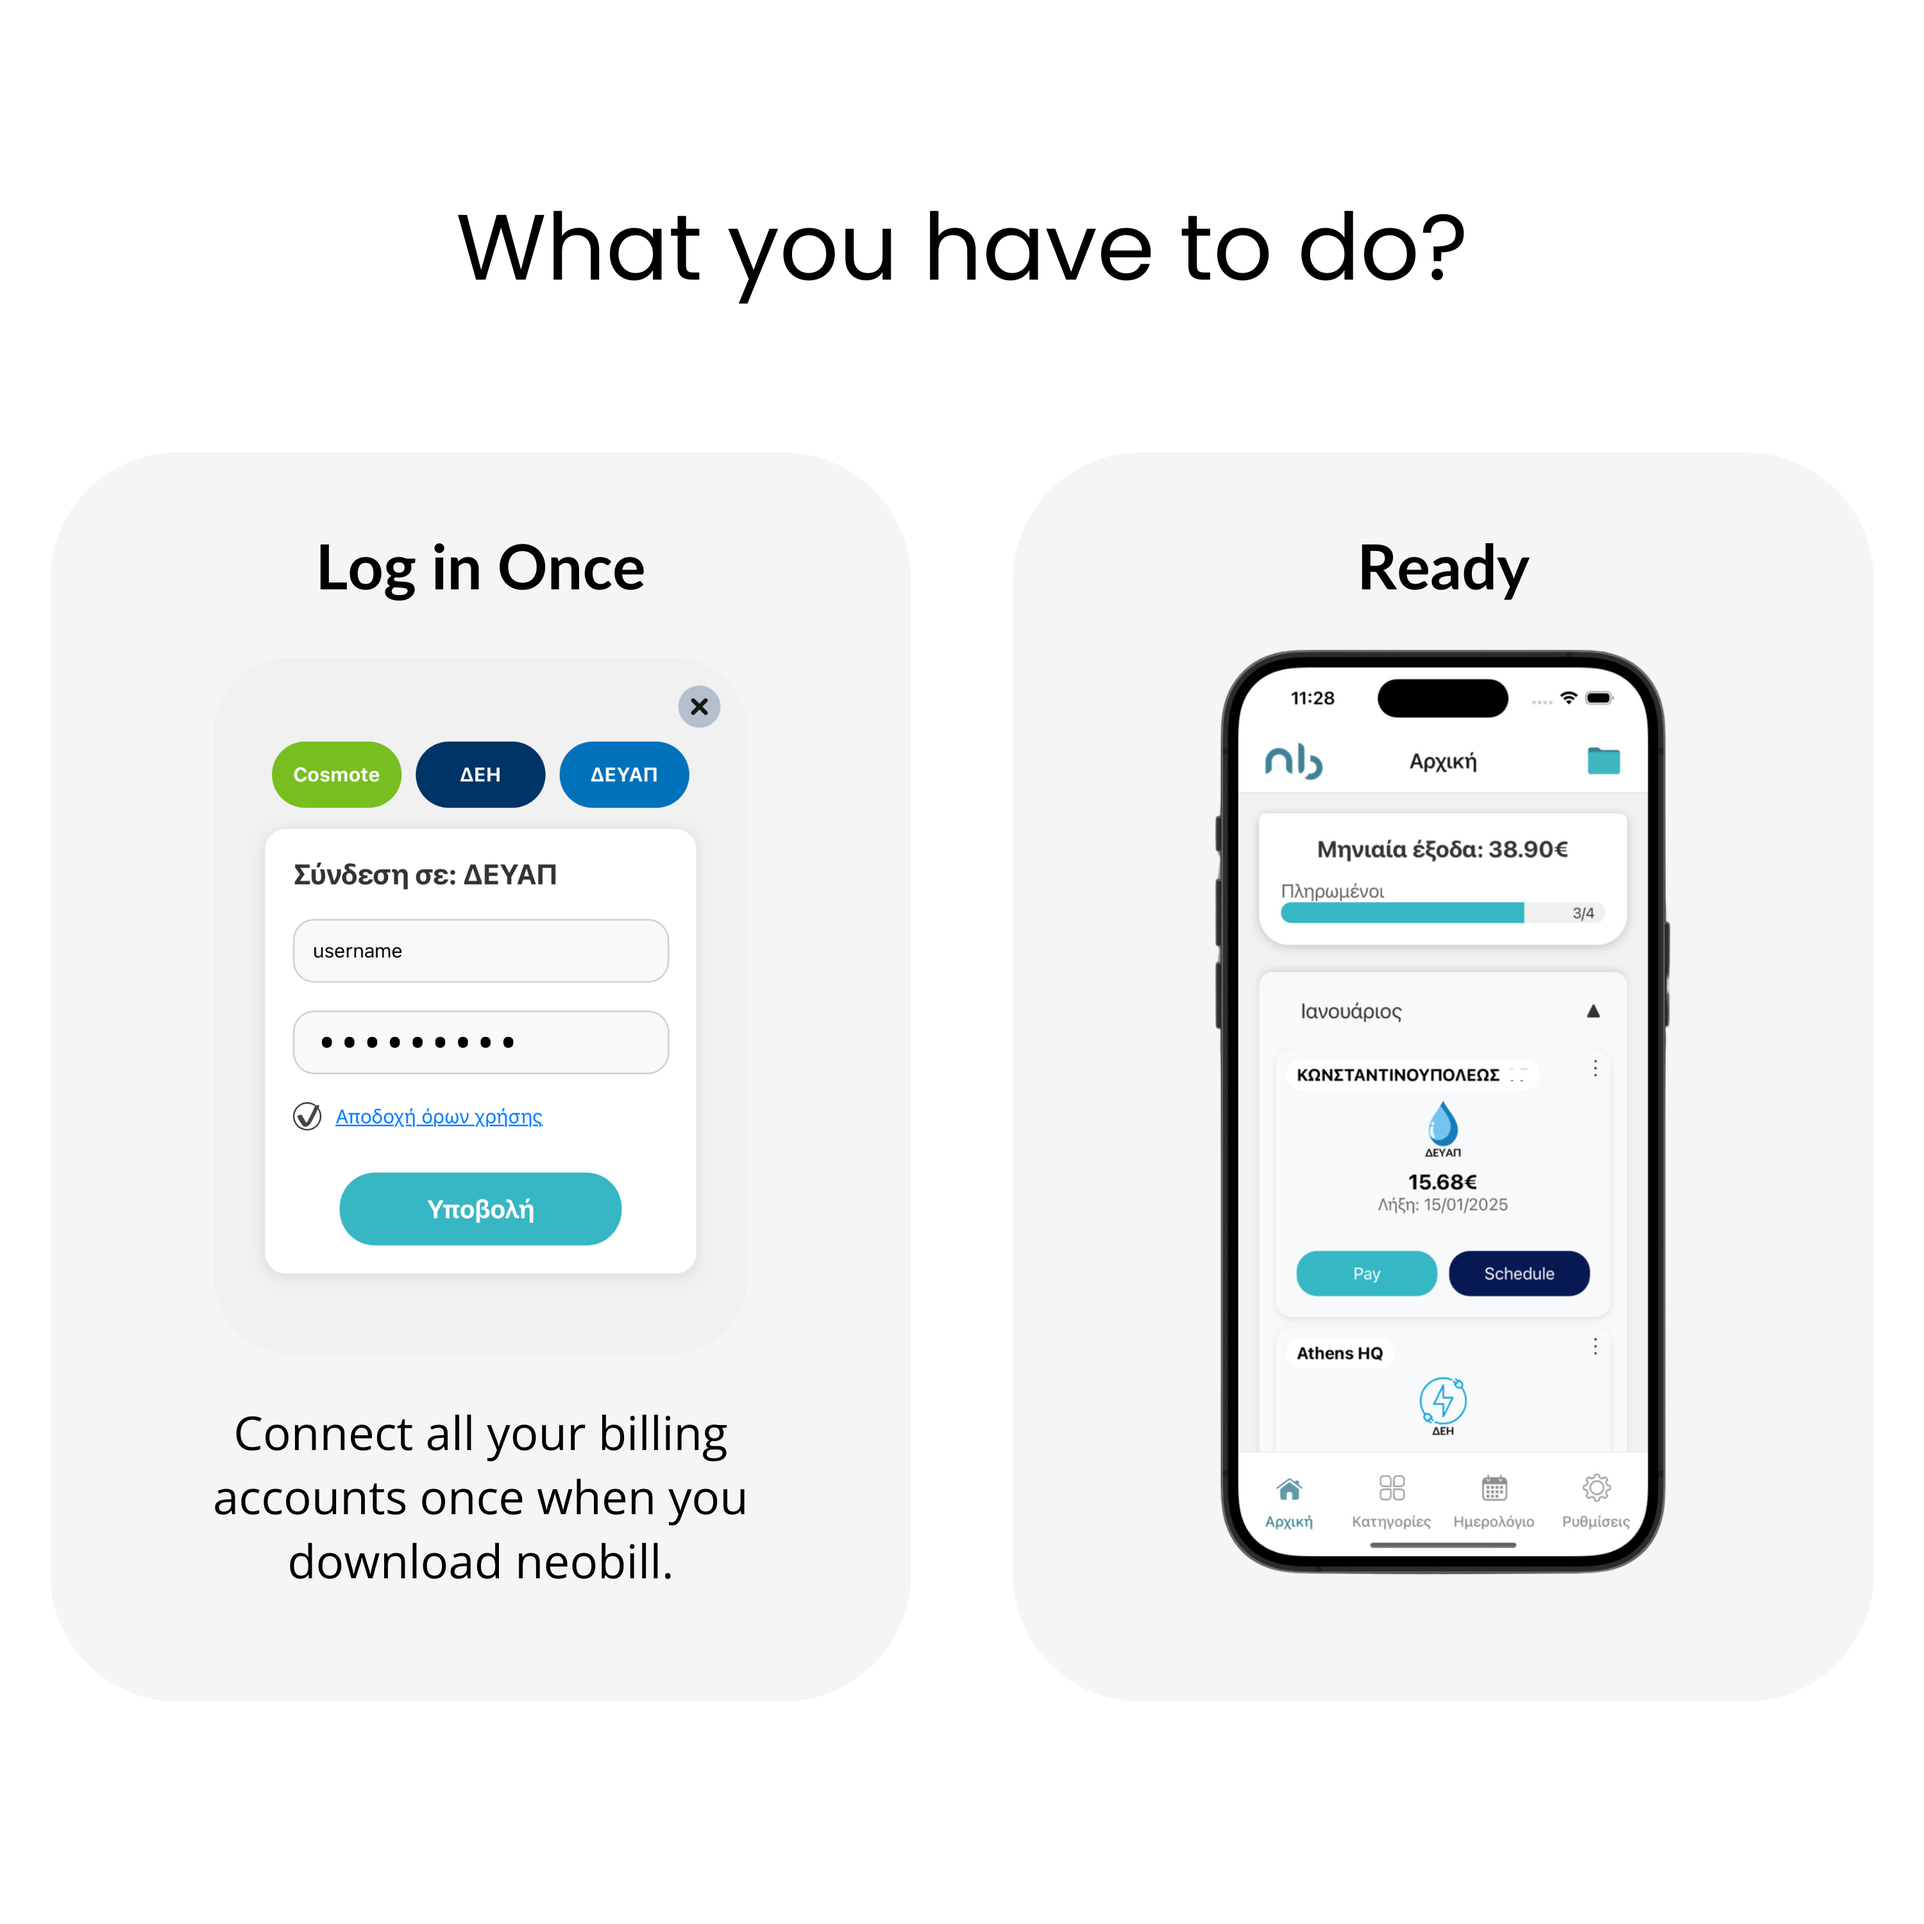
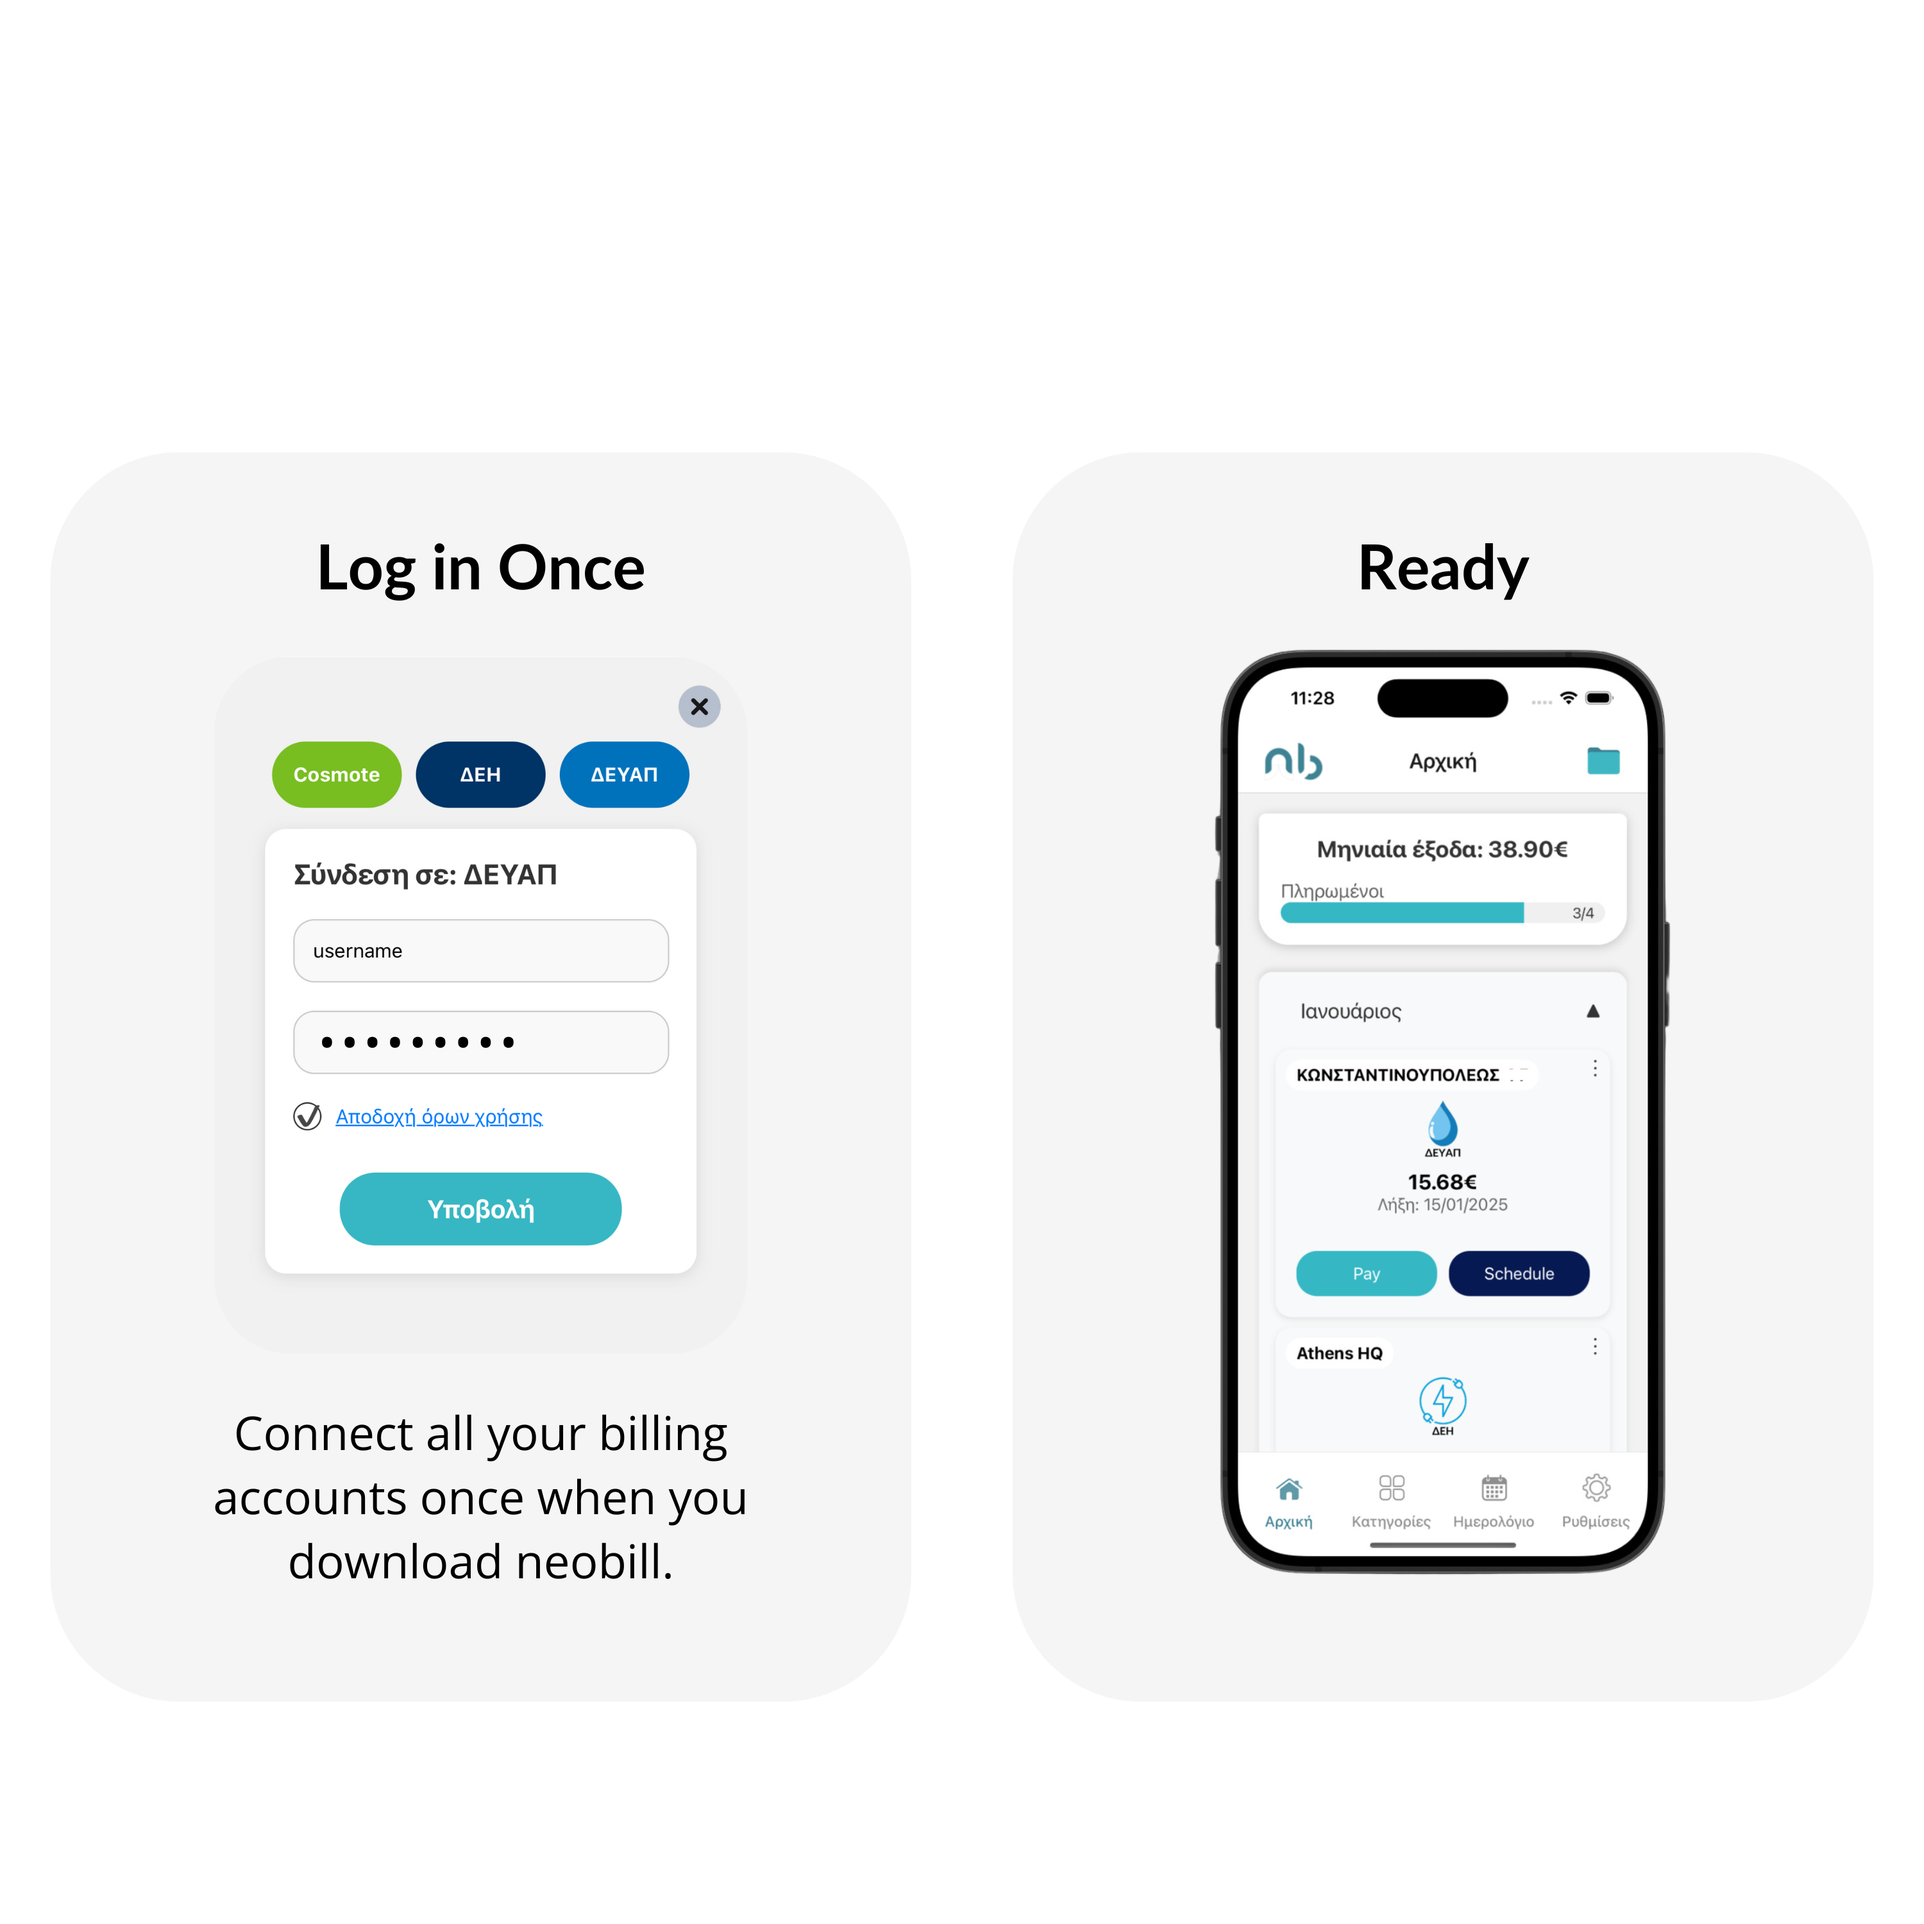
fixes allignment

Changed region(s): [[0.248, 0.093, 0.775, 0.155]]

diff --git a/index.html b/index.html
@@ -20,23 +20,28 @@
         <p class="lead">Manage, Pay, and Schedule Bills Easily</p>
         <button class="btn btn-primary">Get Started</button>
     </section>
-    
-    <section class="section">
-        <div class="container">
-            <h2>All Your Bills in One App</h2>
-            <a href="#user-experience" id="scroll-down">
-                <img src="allinone.gif" alt="App Interface" class="allinone-img">
-            </a>
-        </div>
+
+    <section class="section text-center">
+        <h3 class="ui-overlay-title">All Your Bills in One App</h3>
+        <img src="allinone.gif" alt="App Interface" class="allinone-img">
+        <a href="#user-experience" id="scroll-down"></a>
     </section>
+    
     <section id="user-experience" class="section bg-white py-5">
-        <div class="text-center" style="width: 100vw; max-width: 100%; margin: 0 auto;">
-        <div class="ui">
-            <img src="with_neob.png" alt="App Interface" class="img-fluid w-100" >
-        </div>
+        <div class="centered-section">
+          <div class="with-neob-container">
+            <div class="with-neob-overlay">
+              <h3 class="overlay-title">With neobill</h3>
+              <p class="overlay-text">You can connect all your bills in a single application<br> and pay in just 3 steps.</p>
+            </div>
+            <img src="with_neob.png" alt="App Interface" class="img-fluid with-neob-img" >
+          </div>
 
           <div class="ui">
-            <img src="ui_pro.png" alt="App Interface" class="img-fluid w-100" >
+            <div class="ui-overlay-container">
+              <h3 class="ui-overlay-title">What you have to do?</h3>
+              <img src="ui_pro.png" alt="App Interface" class="img-fluid w-100">
+            </div>
           </div>
         </div>
     </section>
@@ -232,14 +237,15 @@
         function activateIndicator(index) {
             indicators.forEach((btn, i) => {
                 btn.classList.remove('active');
-                btn.querySelector('.progress-bar').style.width = '0%';
-                if (i === index) {
-                    btn.classList.add('active');
-                    setTimeout(() => {
-                        btn.querySelector('.progress-bar').style.width = '100%';
-                    }, 50);
-                }
+                const bar = btn.querySelector('.progress-bar');
+                bar.style.width = '0%';
             });
+
+            const currentBtn = indicators[index];
+            const currentBar = currentBtn.querySelector('.progress-bar');
+            currentBtn.classList.add('active');
+            currentBar.style.transition = 'width 5s linear';
+            currentBar.style.width = '100%';
         }
 
         function initCarouselProgress() {
@@ -247,7 +253,6 @@
             activateIndicator(activeIndex);
             clearInterval(interval);
             interval = setInterval(() => {
-                const next = (activeIndex + 1) % indicators.length;
                 carousel.querySelector('.carousel-control-next').click();
             }, 5000);
         }

diff --git a/styles.css b/styles.css
@@ -387,3 +387,101 @@
         margin-right: auto;
     }
 }
+
+.with-neob-overlay {
+      position: absolute;
+      top: 10%;
+      left: 0;
+      width: 100%;
+      height: 100%;
+      display: flex;
+      flex-direction: column;
+      align-items: center;
+      text-align: center;
+      padding: 10px;
+      z-index: 2;
+}
+
+.with-neob-container {
+      position: relative;
+      display: inline-block;
+      width: 80%;
+      max-width: 900px;
+  }
+
+.with-neob-img {
+      width: 100%;
+      height: auto;
+      display: block;
+  }
+
+@media (max-width: 768px) {
+      .with-neob-container {
+          width: 95vw;
+      }
+  }
+
+.centered-section {
+    display: flex;
+    flex-direction: column;
+    align-items: center;
+    justify-content: center;
+    text-align: center;
+}
+
+.ui-overlay-container {
+    position: relative;
+    display: inline-block;
+    width: 80%;
+    max-width: 900px;
+}
+
+.ui-overlay-container img {
+    width: 100%;
+    height: auto;
+    display: block;
+}
+.ui-overlay-container .ui-overlay-title {
+    position: absolute;
+    top: 12%;
+    left: 50%;
+    transform: translateX(-50%);
+    color: #333;
+    font-size: 2.2rem;
+    font-weight: normal;
+    text-align: center;
+}
+
+.section.text-center .ui-overlay-title {
+    position: static;
+    transform: none;
+    margin-bottom: 15px;
+}
+
+@media (max-width: 768px) {
+    .ui-overlay-container {
+        width: 95vw;
+    }
+
+    .ui-overlay-title {
+        font-size: 1.6rem;
+    }
+}
+
+.section.text-center {
+    padding-top: 0%;
+    padding: 80px 20px;
+    text-align: center;
+}
+.section.text-center img {
+    width: 60%;
+    max-width: 400px;
+    display: block;
+    margin: 0 auto;
+}
+.section.text-center h3 {
+    font-size: 2.2rem;
+    color: #333;
+    margin-bottom: 5px;
+    font-weight: normal;
+}
